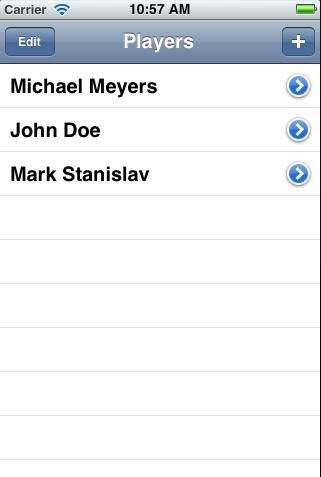
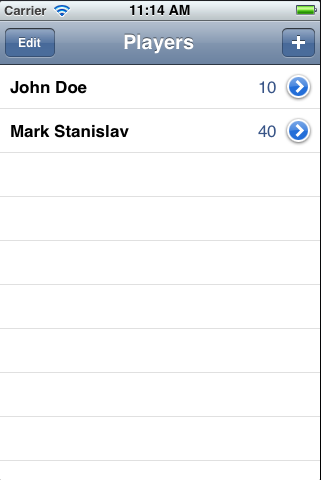
Updating player view cell to show score on right margin; updated screenshots as well

diff --git a/app/players_controller.rb b/app/players_controller.rb
@@ -24,13 +24,14 @@ class PlayersController < UITableViewController
   CellID = 'CellIdentifier'
   def tableView(tableView, cellForRowAtIndexPath:indexPath)
     cell = tableView.dequeueReusableCellWithIdentifier(CellID) || begin
-      cell = UITableViewCell.alloc.initWithStyle(UITableViewCellStyleDefault, reuseIdentifier:CellID)
+      cell = UITableViewCell.alloc.initWithStyle(UITableViewCellStyleValue1, reuseIdentifier:CellID)
       cell.accessoryType = UITableViewCellAccessoryDetailDisclosureButton
       cell
     end
     player = get_row(indexPath.row)
 
     cell.textLabel.text = player.name
+    cell.detailTextLabel.text = player.score.to_s
     cell
   end
 
